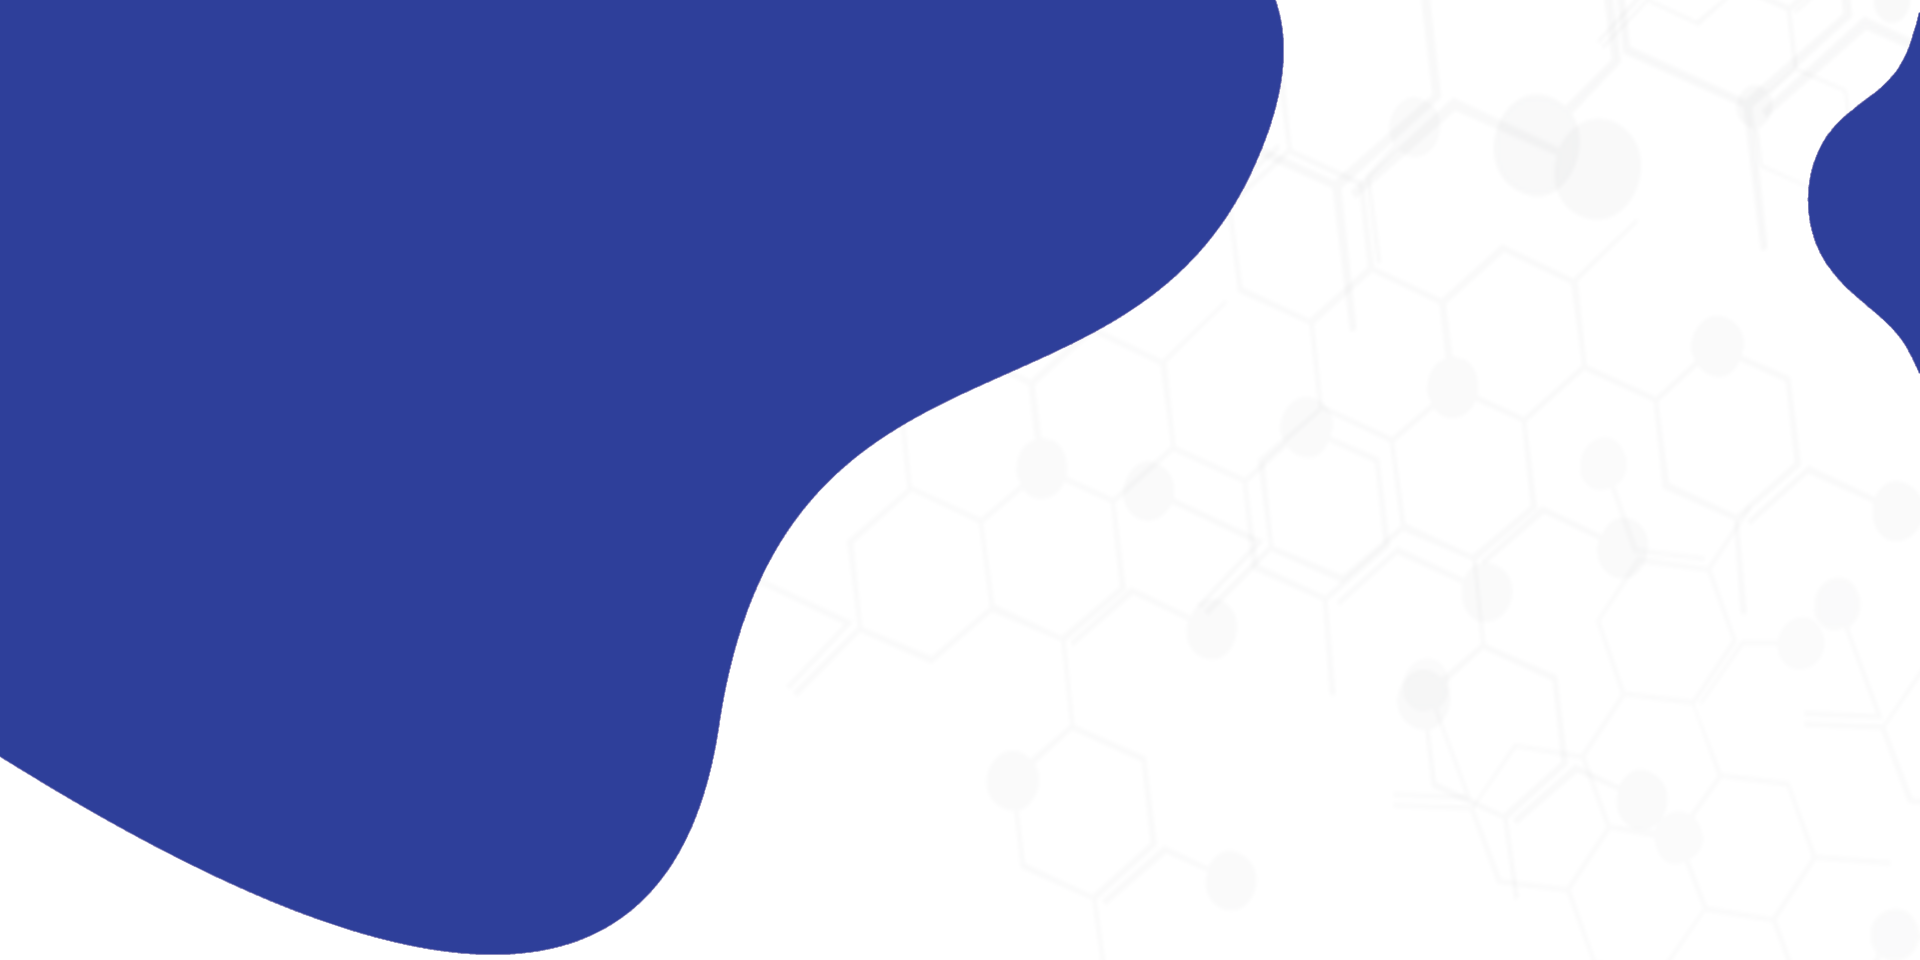
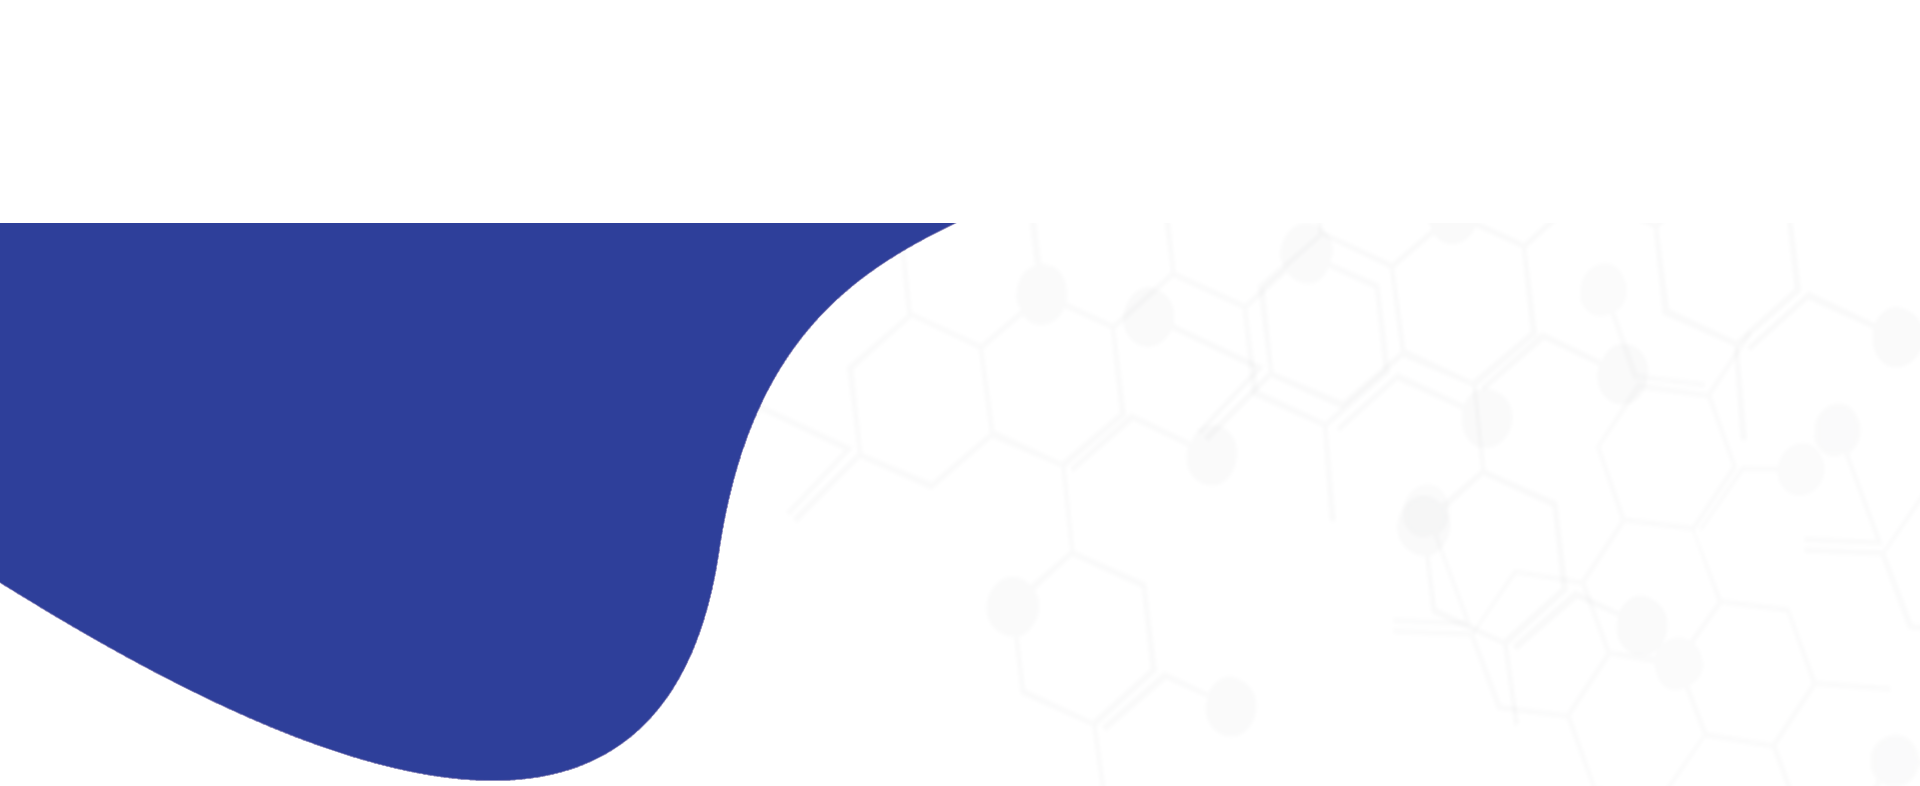
till prevost

diff --git a/Delmon/Prevost/index.html b/Delmon/Prevost/index.html
@@ -21,7 +21,7 @@
     <!-- style css -->
     <link rel="stylesheet" href="css/style.css">
     <!-- Responsive-->
-    <!--<link rel="stylesheet" href="css/responsive.css">-->
+    <link rel="stylesheet" href="css/responsive.css">
     <!-- fevicon -->
     <link rel="icon" href="../assets/images/logo.jpg" type="image/gif" />
     <!-- Scrollbar Custom CSS -->
@@ -51,7 +51,7 @@
                             <div class="full">
                                 <div class="center-desk">
                                     <div class="logo">
-                                        <a href="index.html"><img src="images/logo.png" alt="#" /></a>
+                                        <a href="index.html"><img src="images/logo.png" style="margin-top:75px" alt="#" /></a>
                                     </div>
                                 </div>
                             </div>
@@ -87,9 +87,9 @@
                     <div class="row d_flex">
                         <div class="col-md-6">
                             <div class="text-bg">
-                                <h1 style="font:22px">Delmon Group of Companies<br> the official distributor of<br> PREVOST Company</h1>
-                                <p>
-                                    We are Delmon Group of Companies KSA,<br>the official distributor of PREVOST Company in <br /> the Kingdom of Saudi Arabia and in G.C.C Area
+                                <h1 style="font-size:21px;margin-top:150px;color:#35348d">Delmon Group of<br> Companies the official <br>distributor of PREVOST Company</h1>
+                                <p style="margin-right:100px;color:#35348d">
+                                    We are Delmon Group <br>of Companies KSA,<!--<br>-->the official distributor of PREVOST Company<!--<br >--> in  the Kingdom of Saudi Arabia and<!--<br>--> in G.C.C Area
                                 </p>
                                 <!--<a href="#">Read More</a>-->
                             </div>
@@ -335,7 +335,7 @@
                 <div class="row">
                     <div class="col-md-12">
                         <div class="titlepage">
-                            <h2>Who we are</h2>
+                            <h2 style="color:#35348d">Who we are</h2>
                         </div>
                     </div>
                 </div>
@@ -348,7 +348,7 @@
                     <div class="col-md-9">
                         <div class="Testimonial_box">
                             <!--<h4>Donals</h4>-->
-                            <p>
+                            <p style="color:#35348d;font:bold">
                                 Delmon Group of Companies is the official distributor of Prevost for the Kingdom and the Arabian Gulf, where Naif Al-Ghunaim heads the Prevost branch, Prevost has been designing and manufacturing innovative, patented air equipment since 1978. Our extensive range of compressed air and fluid distribution products are tailored for numerous industries and applications. Our equipment is professional grade quality and used in manufacturing industries, vehicle bodyshops and design and engineering firms in Europe, the United States and over 80 countries. We have strategically positioned our sales and logistics teams globally to support our initiatives.
                             </p>
                         </div>

diff --git a/Delmon/Prevost/css/style.css b/Delmon/Prevost/css/style.css
@@ -312,16 +312,18 @@ button {
 /*--------------------------------------------------------------------- layout new css ---------------------------------------------------------------------*/
 
 .head_top {
-     background: url(../images/banner.png);
-     background-size: 100% 100%;
+/*     background: url('../images/banner.png');
+*/    background-size: 100% 100%;
      background-repeat: no-repeat;
      background-position: center;
 }
 
 .header {
-     width: 100%;
-     background: transparent;
-     padding: 30px 30px;
+    width: 100%;
+    height:70px;
+    background: #35348d;
+    padding: 1px 1px;
+ 
 }
 
 .logo a {
@@ -477,8 +479,8 @@ button {
      width: 320px;
      height: 542px;
      right: 0;
-     background: url(../images/midil.png);
-     top: -210px;
+/*     background: url(../images/midil.png);
+*/     top: -210px;
 }
 
 .projects .titlepage span {
@@ -531,7 +533,7 @@ button {
 /** Testimonial section **/
 
 .Testimonial {
-     background: url(../images/test.png);
+    /* background: url(../images/test.png);*/
      background-repeat: no-repeat;
      margin-top: 90px;
      padding: 90px 0px;

diff --git a/Delmon/Prevost/css/responsive.css b/Delmon/Prevost/css/responsive.css
@@ -53,7 +53,7 @@
 
 @media (min-width: 576px) and (max-width: 767px) {
     .head_top {
-        background: #0891f8;
+        background: transparent;
     }
     .mean-container .mean-bar {
         margin-top: 0px;
@@ -124,7 +124,7 @@
 
 @media (max-width: 575px) {
     .head_top {
-        background: #35348d;
+        background: transparent;
     }
     .header {
         padding: 12px 0px 0px 0px;
